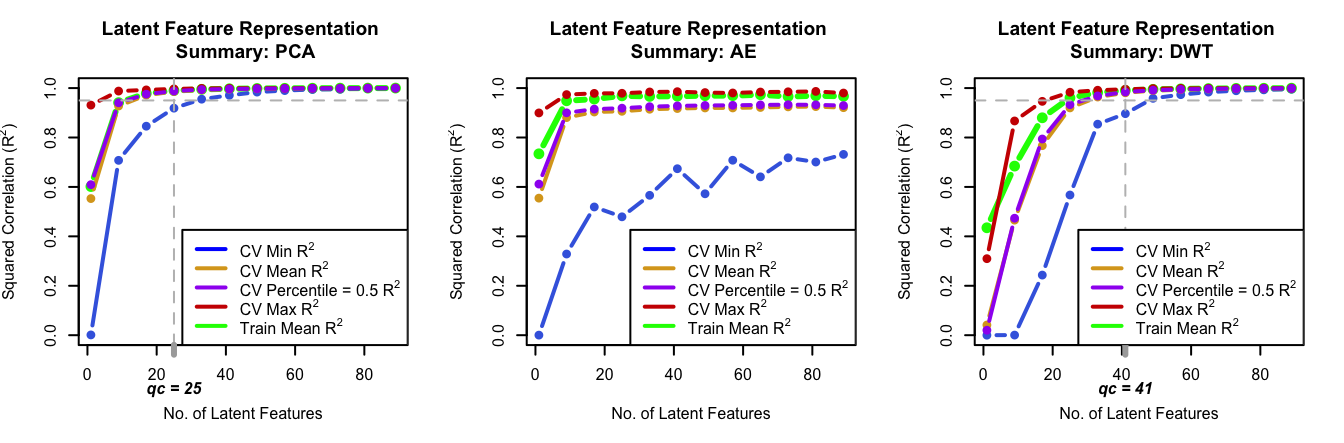
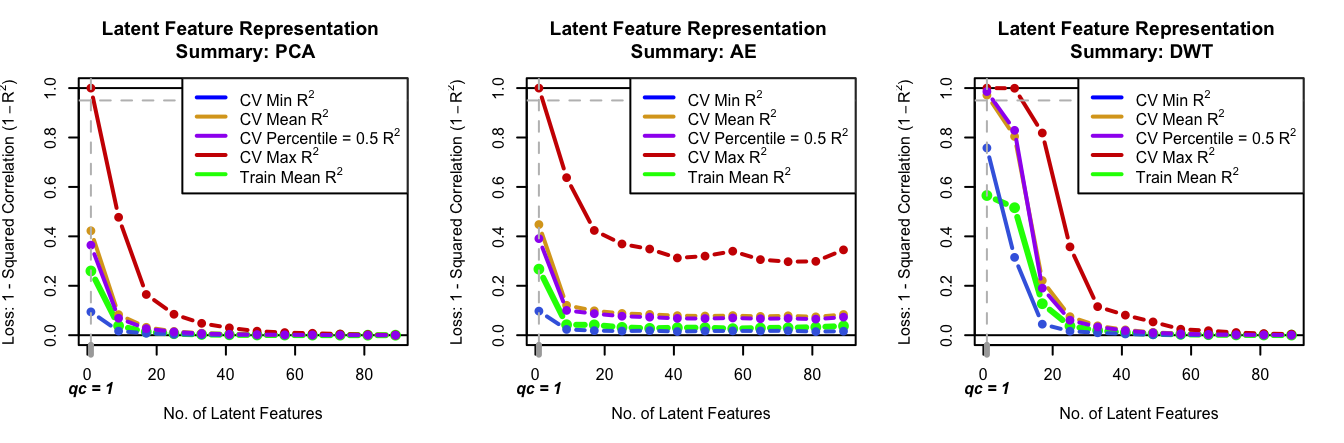
https://github.com/edwardgunning/GLaRe/issues/9#issue-2595203171

diff --git a/README.md b/README.md
@@ -62,9 +62,9 @@ ph_pca <- GLaRe(
   sqcorrel = c("trainmean", "cvmean", "cvmin", "cvmax"),
   cvqlines = 0.5,
   cutoffcriterion = 0.05,
-  cutoffvalue = 0.9,
+  cutoffvalue = 0.95,
   incr = 10,
-  lim = 250,
+  lim = ncol(PH),
   verbose = FALSE)
 
 ## autoencoder
@@ -75,16 +75,11 @@ ph_ae <- GLaRe(
   sqcorrel = c("trainmean", "cvmean", "cvmin", "cvmax"),
   cvqlines = 0.5,
   cutoffcriterion = 0.05,
-  cutoffvalue = 0.9,
+  cutoffvalue = 0.95,
   incr = 10,
-  lim = 250,
+  lim = ncol(PH),
   ae_args = list(link_fun = "linear", epoch = 50),
   verbose = FALSE)
-#> Warning in GLaRe(mat = PH, learn = "ae", kf = 5, sqcorrel = c("trainmean", : No
-#> qualifying criterion found, try adjusting parameters.
-```
-
-``` r
 
 ## dwt
 ph_dwt <- GLaRe(
@@ -94,9 +89,9 @@ ph_dwt <- GLaRe(
   sqcorrel = c("trainmean", "cvmean", "cvmin", "cvmax"),
   cvqlines = 0.5,
   cutoffcriterion = 0.05,
-  cutoffvalue = 0.9,
+  cutoffvalue = 0.95,
   incr = 10,
-  lim = 250,
+  lim = ncol(PH),
   verbose = FALSE)
 ```
 
@@ -125,7 +120,7 @@ DTI_pca <- GLaRe(
   cutoffcriterion = 0.05,
   cutoffvalue = 0.95,
   incr = 8,
-  lim = 93,
+  lim = nrow(DTI),
   verbose = FALSE)
 
 DTI_ae <- GLaRe(
@@ -137,14 +132,9 @@ DTI_ae <- GLaRe(
   cutoffcriterion = 0.05,
   cutoffvalue = 0.95,
   incr = 8,
-  lim = 93,
+  lim = nrow(DTI),
   ae_args = list(link_fun = "linear", epoch = 50),
   verbose = FALSE)
-#> Warning in GLaRe(mat = DTI, learn = "ae", kf = 5, sqcorrel = c("trainmean", :
-#> No qualifying criterion found, try adjusting parameters.
-```
-
-``` r
 
 DTI_dwt <- GLaRe(
   mat = DTI,
@@ -155,7 +145,7 @@ DTI_dwt <- GLaRe(
   cutoffcriterion = 0.05,
   cutoffvalue = 0.95,
   incr = 8,
-  lim = 93, 
+  lim = nrow(DTI), 
   verbose = FALSE)
 ```
 
